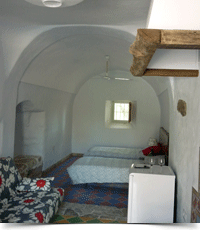
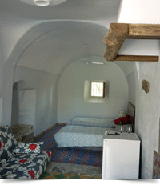
modifications para maquetacion

diff --git a/index.html b/index.html
@@ -9,7 +9,7 @@
 
 header {margin-top:40px;}
 
-#full-container{background-image:url(img/countryside.jpg);}
+#full-container{background-image:url(img/countryside_1795px.jpg);}
 
 #contenedor-pagina-en-blanco{margin:30px -20px 0px -20px; padding:30px 20px 0px 20px; background:white; border-radius: 6px;}
 
@@ -29,7 +29,7 @@ header {margin-top:40px;}
 	
 </style>
 <body>
-	
+
 	<div id="fb-root"></div>
 	<script>(function(d, s, id) {
 	  var js, fjs = d.getElementsByTagName(s)[0];
@@ -46,10 +46,10 @@ header {margin-top:40px;}
 			
 			<div class="content">
 				
-				<div id="contenedor-pagina-en-blanco">
+				<div id="contenedor-pagina-en-blanco" style="width:auto">
 					<div class="row">
 						<div class="span2">
-							<img src="img/molino_icono_250.png" style="border-radius: 6px;">
+							<img src="img/molino_icono_140px.png" style="border-radius: 6px;">
 							<!--Barra de navegacion-->
 				        	<nav>
 				            	<ul class="nav nav-pills nav-stacked">
@@ -94,8 +94,8 @@ header {margin-top:40px;}
 							</h3>
 						
 							<div class="row" style="margin-top:15px">
-								<div class="span3"><img src="img/habita1.png" alt="Activities"></div>
-								<div class="span9"><h3>El molino consta de 5 habitaciones  dobles independientes, ideales
+								<div class="span2"><img src="img/habita1.png" alt="Activities"></div>
+								<div class="span10"><h3>El molino consta de 5 habitaciones  dobles independientes, ideales
 									 tanto en temporada de invierno como de verano ya que todas ellas están dotadas de chimenea y piscina. Esto 
 									permite que la estancia sea agradable en cualquier época del año.<br/>
 											A pocos metros se encuentra la Venta del Casaron, una combinación perfecta de calidad y autenticidad
@@ -272,8 +272,7 @@ header {margin-top:40px;}
 					</div>
 					<div class="span3">
 						<h2>Síguenos</h2>
-							<div class="fb-like" data-href="http://www.google.es" data-send="true" data-width="220" data-show-faces="true" data-action="recommend"></div>	
-							<div class="fb-like-box" data-href="https://www.facebook.com/profile.php?id=100002326918477&amp;ref=ts" data-width="292" data-height="300" data-show-faces="true" data-stream="true" data-header="true"></div>
+						<div class="fb-like" data-href="https://www.facebook.com/MolinoLosBadalejos" data-send="false" data-width="225" data-show-faces="true"></div>
 					</div>
 					
 					<div class="span3">	
